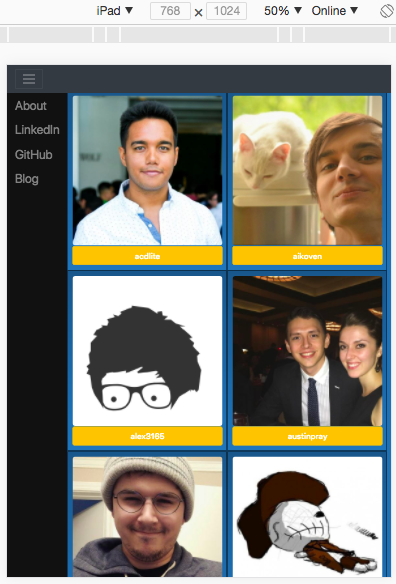
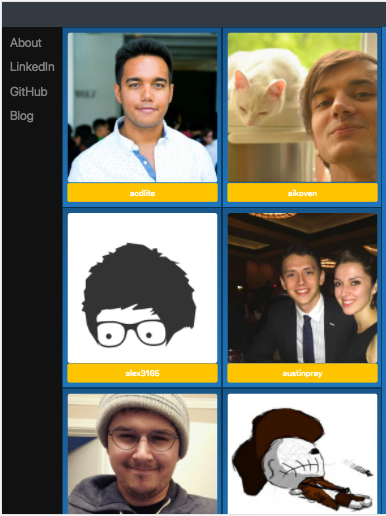
first commit

diff --git a/public/index.html b/public/index.html
@@ -27,31 +27,46 @@
   <noscript>
     You need to enable JavaScript to run this app.
   </noscript>
-  <script src="https://code.jquery.com/jquery-3.2.1.slim.min.js" integrity="sha384-KJ3o2DKtIkvYIK3UENzmM7KCkRr/rE9/Qpg6aAZGJwFDMVNA/GpGFF93hXpG5KkN" crossorigin="anonymous"></script>
-  <script src="https://cdnjs.cloudflare.com/ajax/libs/popper.js/1.12.9/umd/popper.min.js" integrity="sha384-ApNbgh9B+Y1QKtv3Rn7W3mgPxhU9K/ScQsAP7hUibX39j7fakFPskvXusvfa0b4Q" crossorigin="anonymous"></script>
-  <script src="https://maxcdn.bootstrapcdn.com/bootstrap/4.0.0-beta.3/js/bootstrap.min.js" integrity="sha384-a5N7Y/aK3qNeh15eJKGWxsqtnX/wWdSZSKp+81YjTmS15nvnvxKHuzaWwXHDli+4" crossorigin="anonymous"></script>
-  
+  <script src="https://code.jquery.com/jquery-3.2.1.slim.min.js" integrity="sha384-KJ3o2DKtIkvYIK3UENzmM7KCkRr/rE9/Qpg6aAZGJwFDMVNA/GpGFF93hXpG5KkN"
+    crossorigin="anonymous"></script>
+  <script src="https://cdnjs.cloudflare.com/ajax/libs/popper.js/1.12.9/umd/popper.min.js" integrity="sha384-ApNbgh9B+Y1QKtv3Rn7W3mgPxhU9K/ScQsAP7hUibX39j7fakFPskvXusvfa0b4Q"
+    crossorigin="anonymous"></script>
+  <script src="https://maxcdn.bootstrapcdn.com/bootstrap/4.0.0-beta.3/js/bootstrap.min.js" integrity="sha384-a5N7Y/aK3qNeh15eJKGWxsqtnX/wWdSZSKp+81YjTmS15nvnvxKHuzaWwXHDli+4"
+    crossorigin="anonymous"></script>
+
   <div class="sidenav">
-    <a target="_blank" href="http://mruanova.com/">About</a>
+    <a target="_blank" href="http://mruanova.com">About</a>
     <a target="_blank" href="https://www.linkedin.com/in/mruanova">LinkedIn</a>
     <a target="_blank" href="https://github.com/mruanova">GitHub</a>
     <a target="_blank" href="https://medium.com/@moreissues">Blog</a>
   </div>
 
   <div class="pos-f-t">
-    <div class="collapse" id="navbarToggleExternalContent">
-      <div class="bg-dark p-4">
-        <h4 class="text-white">Members</h4>
-        <span class="text-muted">Mauricio Ruanova-Hurtado</span>
-      </div>
-    </div>
     <nav class="navbar navbar-dark bg-dark">
-      <button class="navbar-toggler" type="button" data-toggle="collapse" data-target="#navbarToggleExternalContent" aria-controls="navbarToggleExternalContent" aria-expanded="false" aria-label="Toggle navigation">
-        <span class="navbar-toggler-icon"></span>
-      </button>
+      <div id="navbar-mobile">
+          <button type="button" class="navbar-toggler" data-toggle="collapse" data-target="#navbar" aria-expanded="true" aria-controls="navbar">
+            <span class="navbar-toggler-icon"></span>
+          </button>
+          <div id="navbar" class="navbar-collapse collapse in" aria-expanded="true">
+            <ul class="nav navbar-nav">
+              <li>
+                <a class="dropdown-item" target="_blank" href="http://mruanova.com">About</a>
+              </li>
+              <li>
+                <a class="dropdown-item" target="_blank" href="https://www.linkedin.com/in/mruanova">LinkedIn</a>
+              </li>
+              <li>
+                <a class="dropdown-item" target="_blank" href="https://github.com/mruanova">GitHub</a>
+              </li>
+              <li>
+                <a class="dropdown-item" target="_blank" href="https://medium.com/@moreissues">Blog</a>
+              </li>
+            </ul>
+          </div>
+      </div>
     </nav>
   </div>
-  
+
   <div id="root"></div>
 
 </body>

diff --git a/src/index.css b/src/index.css
@@ -18,6 +18,14 @@ body {
 }
 
 /* The sidebar menu */
+#navbar-mobile {
+  display: none;
+} 
+
+.navbar {
+  min-height: 50px;
+}
+
 .sidenav {
   height: 100%; /* Full-height: remove this if you want "auto" height */
   width: 120px; /* Set the width of the sidebar */
@@ -52,9 +60,21 @@ body {
   padding: 0px 10px;
 }
 
+.dropdown-item {
+  color: white !important;
+  font-size: 25px;
+}
+.dropdown-item:hover {
+  border-left: 5px solid orange;
+  color: orange !important;
+}
+
 @media only screen and (max-width: 767px) {
   .sidenav {
     display: none;
+  }
+  #navbar-mobile {
+    display: block;
   }
   #root {
     margin-left: 0;
